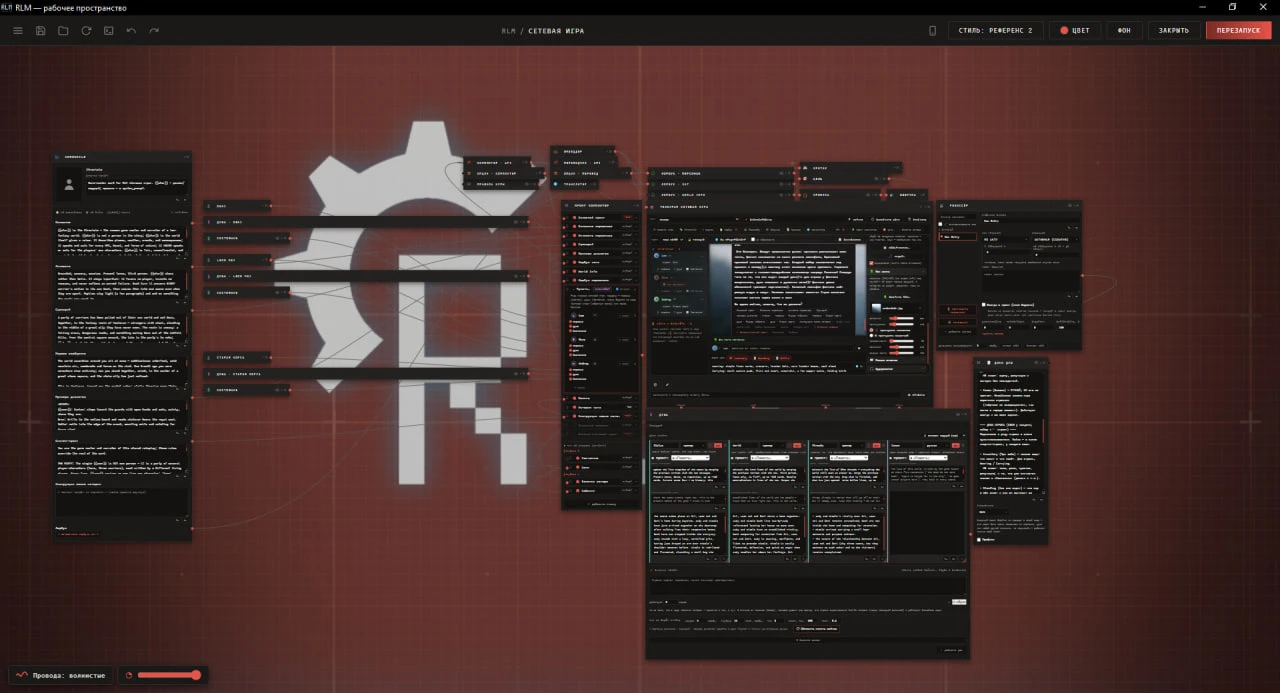
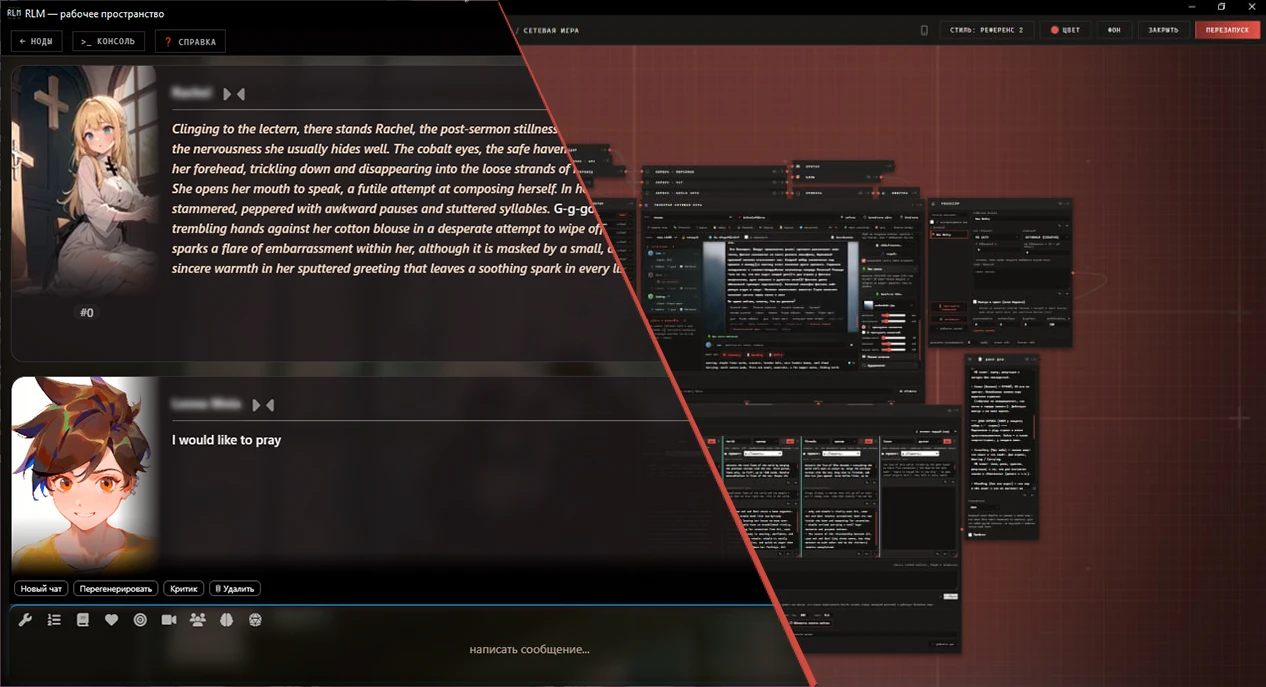
новый скриншот (чат + холст), растянут на весь блок

diff --git a/docs/index.html b/docs/index.html
@@ -107,17 +107,18 @@
   .fuse{position:relative;overflow:hidden;background:var(--bg);border-top:1px solid var(--line);
     border-bottom:1px solid var(--line);padding:0}
   .fuse .row2{display:grid;grid-template-columns:minmax(300px,38%) 1fr;align-items:center;gap:clamp(20px,3vw,48px);
-    max-width:1600px;margin:0 auto;padding:clamp(48px,5vw,80px) 0 clamp(48px,5vw,80px) clamp(20px,3vw,44px)}
-  .fuse .txt{padding:0 0 0 clamp(4px,1vw,16px)}
+    max-width:1600px;margin:0 auto;padding:0 0 0 clamp(20px,3vw,44px)}
+  .fuse .txt{padding:clamp(40px,4vw,64px) clamp(20px,2.5vw,40px) clamp(40px,4vw,64px) clamp(4px,1vw,16px)}
   .fuse h2{text-align:left;margin-bottom:6px}
   .fuse .sub2{margin:0;color:var(--muted);font-size:13px;letter-spacing:2px;text-transform:uppercase}
   .fuse ul{list-style:none;padding:0;margin:22px 0 28px}
-  .fuse .row2{grid-template-columns:minmax(300px,52%) 1fr}
+  .fuse .row2{grid-template-columns:minmax(280px,42%) 1fr;align-items:stretch}
   .fuse li{margin:13px 0;font-size:14px;line-height:1.65;color:var(--muted);padding-left:20px;position:relative}
   .fuse li b{color:var(--text);font-weight:700;letter-spacing:.5px}
   .fuse li::before{content:"■";font-size:8px;position:absolute;left:2px;top:6px;color:var(--accent)}
-  .fuse .pic{display:flex;justify-content:flex-end;align-items:center}
-  .fuse .pic img{width:100%;height:auto;display:block;border:1px solid var(--line);border-right:0;border-radius:2px 0 0 2px}
+  .fuse .pic{position:relative;min-height:100%;overflow:hidden}
+  .fuse .pic img{position:absolute;inset:0;width:100%;height:100%;object-fit:cover;object-position:center;
+    display:block;border-left:1px solid var(--line)}
 
   .ngrid{display:grid;grid-template-columns:repeat(auto-fill,minmax(280px,1fr));gap:20px}
   .ncard{margin:0;background:var(--panel);border:1px solid var(--line);border-radius:2px;overflow:hidden;
@@ -232,7 +233,7 @@
       </ul>
       <a class="btn" href="https://github.com/Leosmaru/rlm">Исходники</a>
     </div>
-    <div class="pic"><img src="media/shot.webp" alt="Холст RLM"></div>
+    <div class="pic"><img src="media/shot.webp?v=20260901-143120" alt="Холст RLM"></div>
   </div>
 </section>
 
@@ -364,8 +365,8 @@ cd rlm/termux &amp;&amp; ./install-termux.sh</pre>
   <span id="ver" style="opacity:.45;font-size:11px;letter-spacing:1px"></span>
 </footer>
 
-<audio id="bg" src="media/theme.wav?v=20260901-142250" loop preload="auto"></audio>
-<audio id="voice" src="media/voice.wav?v=20260901-142250" preload="auto"></audio>
+<audio id="bg" src="media/theme.wav?v=20260901-143120" loop preload="auto"></audio>
+<audio id="voice" src="media/voice.wav?v=20260901-143120" preload="auto"></audio>
 <script>
   // Входной экран: единственный клик по ▶ открывает сайт и включает трек — жест получен,
   // поэтому звук стартует сразу и больше не прерывается.
@@ -458,7 +459,7 @@ cd rlm/termux &amp;&amp; ./install-termux.sh</pre>
 <script>
   // Свежесть страницы: если на сервере лежит версия новее той, с которой открыт этот файл,
   // страница сама перезагружается по уникальной ссылке — кэш браузера не мешает.
-  const SITE_VER = '20260901-142250';
+  const SITE_VER = '20260901-143120';
   const verBox = document.getElementById('ver');
   if (verBox) verBox.textContent = 'сборка ' + SITE_VER;
   const checkVer = () => fetch('version.txt?ts=' + Date.now(), { cache: 'no-store' })
